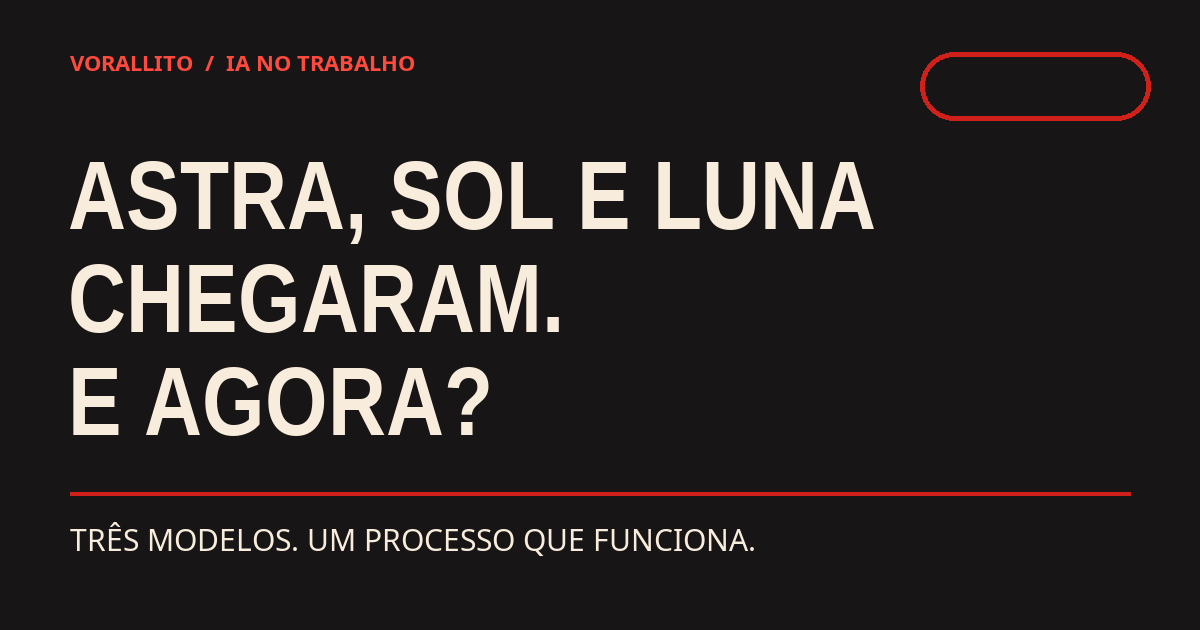
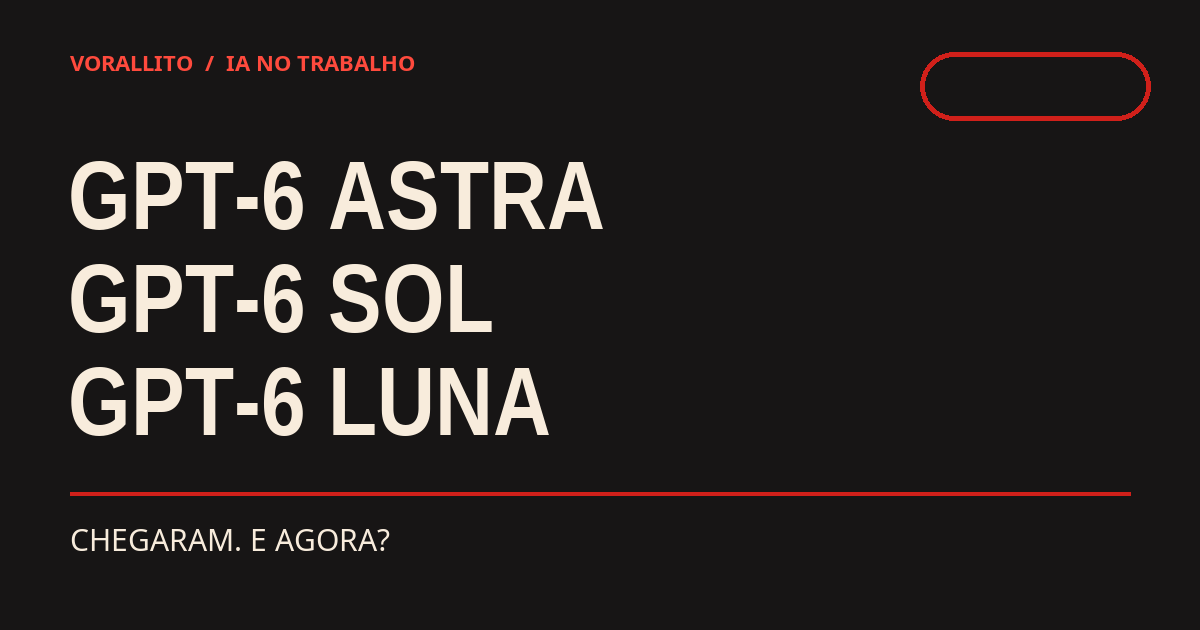
Prefix GPT-6 in Astra Sol Luna guide

diff --git a/chatgpt-gpt6/index.html b/chatgpt-gpt6/index.html
@@ -1,4 +1,4 @@
-<!doctype html><html lang="pt-BR"><head><meta charset="utf-8"><meta name="viewport" content="width=device-width,initial-scale=1"><title>Astra, Sol e Luna chegaram. Seu ChatGPT já sabe como você trabalha? — VORALLITO</title><meta name="description" content="Astra, Sol e Luna no trabalho: escolha o modelo e transforme seu processo em uma receita reutilizável."><meta property="og:title" content="Astra, Sol e Luna chegaram. Seu ChatGPT já sabe como você trabalha?"><meta property="og:description" content="Astra, Sol e Luna no trabalho: escolha o modelo e transforme seu processo em uma receita reutilizável."><meta property="og:image" content="https://vorallito.github.io/chatgpt-gpt6/capa.png"><style>
+<!doctype html><html lang="pt-BR"><head><meta charset="utf-8"><meta name="viewport" content="width=device-width,initial-scale=1"><title>GPT-6 Astra, GPT-6 Sol e GPT-6 Luna chegaram. Seu ChatGPT já sabe como você trabalha? — VORALLITO</title><meta name="description" content="GPT-6 Astra, GPT-6 Sol e GPT-6 Luna no trabalho: escolha o modelo e transforme seu processo em uma receita reutilizável."><meta property="og:title" content="GPT-6 Astra, GPT-6 Sol e GPT-6 Luna chegaram. Seu ChatGPT já sabe como você trabalha?"><meta property="og:description" content="GPT-6 Astra, GPT-6 Sol e GPT-6 Luna no trabalho: escolha o modelo e transforme seu processo em uma receita reutilizável."><meta property="og:image" content="https://vorallito.github.io/chatgpt-gpt6/capa-social.png"><style>
 @import url('https://fonts.googleapis.com/css2?family=Bebas+Neue&family=IBM+Plex+Mono:wght@400;600&family=Instrument+Sans:wght@400;500;600;700&display=swap');
 :root{color-scheme:light;--ink:#211c1a;--paper:#f8f1e7;--red:#d0201a;--line:#d8c9bc}
 *{box-sizing:border-box}html{scroll-behavior:smooth}body{margin:0;background:var(--paper);color:var(--ink);font:18px/1.65 'Instrument Sans',Arial,sans-serif}
@@ -11,24 +11,24 @@ h1{font:normal clamp(54px,8vw,102px)/.96 'Bebas Neue','Arial Narrow',sans-serif;
 article{max-width:800px;margin:0 auto;padding:42px 28px 90px}article h1{display:none}article h2{font:normal 44px/1 'Bebas Neue','Arial Narrow',sans-serif;color:var(--red);margin:2em 0 .5em}article p{margin:0 0 1.25em}article ul{padding-left:1.3em}article li{margin:.3em 0}article blockquote{margin:28px 0;padding:22px 26px;background:#fff;border-left:5px solid var(--red);box-shadow:0 10px 32px #3420180b}article blockquote p:last-child{margin-bottom:0}article strong{font-weight:700}article hr{border:0;border-top:1px solid var(--line);margin:40px 0}
 footer{border-top:1px solid var(--line);max-width:1140px;margin:auto;padding:22px 30px 40px;color:#64564f;font:13px 'IBM Plex Mono',monospace}
 @media(max-width:640px){body{font-size:16px}.hero{padding-top:45px}.deck{font-size:19px}article{padding:24px 20px 64px}article h2{font-size:36px}.mast{padding:14px 20px}}
-</style></head><body><header class="mast"><a class="brand" href="/">VORALLITO</a><a class="sub" href="https://vorallito.substack.com/subscribe">ASSINAR GRÁTIS ↗</a></header><section class="hero"><div class="hero-inner"><div class="eyebrow">VORALLITO / IA NO TRABALHO / 25.09.2026</div><h1>Astra, Sol e Luna chegaram. Seu ChatGPT já sabe como você trabalha?</h1><p class="deck">Astra, Sol e Luna no trabalho: escolha o modelo e transforme seu processo em uma receita reutilizável.</p></div></section><article><h1>Astra, Sol e Luna chegaram. Seu ChatGPT já sabe como você trabalha?</h1>
+</style></head><body><header class="mast"><a class="brand" href="/">VORALLITO</a><a class="sub" href="https://vorallito.substack.com/subscribe">ASSINAR GRÁTIS ↗</a></header><section class="hero"><div class="hero-inner"><div class="eyebrow">VORALLITO / IA NO TRABALHO / 25.09.2026</div><h1>GPT-6 Astra, GPT-6 Sol e GPT-6 Luna chegaram. Seu ChatGPT já sabe como você trabalha?</h1><p class="deck">GPT-6 Astra, GPT-6 Sol e GPT-6 Luna no trabalho: escolha o modelo e transforme seu processo em uma receita reutilizável.</p></div></section><article><h1>GPT-6 Astra, GPT-6 Sol e GPT-6 Luna chegaram. Seu ChatGPT já sabe como você trabalha?</h1>
 <p><strong>A família GPT-6 amplia o que a IA faz no trabalho. Este roteiro mostra como escolher o modelo e transformar seu processo em uma receita reutilizável.</strong></p>
 <p>Você entrega ao ChatGPT uma proposta comercial, uma planilha e as notas da reunião. Pede um resumo executivo. Ele devolve um texto elegante, mas mistura o que foi decidido com o que ainda depende de aprovação.</p>
 <p>Na segunda tentativa, você escreve: “Não invente decisões. Cite a origem de cada número. Siga o formato usado pela equipe.” Na terceira, cola tudo outra vez.</p>
-<p>Agora temos três modelos da mesma geração. <strong>Astra</strong> foi apresentado para os trabalhos mais exigentes, com avanços em tarefas de várias etapas, uso do computador e criação de documentos, planilhas e apresentações. <strong>Sol e Luna, lançados em 22 de setembro</strong>, levam parte desses avanços a opções mais rápidas e com menor preço na API. A pergunta útil não é qual nome parece mais poderoso. É <strong>qual parte do seu trabalho pede mais capacidade e qual parte precisa de um processo claro e repetível</strong>. <a href="https://openai.com/index/gpt-6-astra/">Fontes: OpenAI sobre Astra</a> e <a href="https://openai.com/index/introducing-gpt-6-sol-and-luna/">sobre Sol e Luna</a>.</p>
+<p>Agora temos três modelos da mesma geração. <strong>GPT-6 Astra</strong> foi apresentado para os trabalhos mais exigentes, com avanços em tarefas de várias etapas, uso do computador e criação de documentos, planilhas e apresentações. <strong>GPT-6 Sol e GPT-6 Luna, lançados em 22 de setembro</strong>, levam parte desses avanços a opções mais rápidas e com menor preço na API. A pergunta útil não é qual nome parece mais poderoso. É <strong>qual parte do seu trabalho pede mais capacidade e qual parte precisa de um processo claro e repetível</strong>. <a href="https://openai.com/index/gpt-6-astra/">Fontes: OpenAI sobre GPT-6 Astra</a> e <a href="https://openai.com/index/introducing-gpt-6-sol-and-luna/">sobre GPT-6 Sol e GPT-6 Luna</a>.</p>
 <p>No <a href="https://vorallito.substack.com/p/pare-de-colar-o-mesmo-contexto-no">guia anterior</a>, mostrei como pensar nisso com Claude Skills. Esta é a edição para quem trabalha com <strong>ChatGPT</strong>.</p>
 <h2>Uma família, três ritmos de trabalho</h2>
-<p><strong>Astra:</strong> eu o escolheria para uma decisão difícil que atravessa vários arquivos e ferramentas. Pense em reconciliar três versões de uma proposta, comentários do jurídico e uma planilha de preços antes de produzir o documento final. É a opção de maior capacidade da família segundo a OpenAI. <a href="https://openai.com/index/gpt-6-astra/">Fonte</a>.</p>
-<p><strong>Sol:</strong> eu testaria em análises, pesquisas e redações profissionais que se repetem, especialmente quando preciso revisar a resposta algumas vezes. A OpenAI o apresenta como uma opção forte para trabalho difícil, com mais margem para iterar; na API, seu preço por token é menor que o de Astra. <a href="https://openai.com/index/introducing-gpt-6-sol-and-luna/">Fontes: Sol</a> e <a href="https://openai.com/index/gpt-6-astra/">Astra</a>.</p>
-<p><strong>Luna:</strong> eu começaria por triagens, classificações e primeiros rascunhos com critérios claros, conferindo se o resultado atende ao padrão antes de ampliar o uso. Entre os três, tem o menor preço por token na API. <a href="https://openai.com/index/introducing-gpt-6-sol-and-luna/">Fontes: Sol e Luna</a> e <a href="https://openai.com/index/gpt-6-astra/">Astra</a>.</p>
-<p>Esses são <strong>critérios editoriais para escolher o primeiro teste</strong>, não resultados de uma comparação que executei. Sol e Luna estão disponíveis em <strong>ChatGPT Work e Codex</strong> para contas elegíveis; a OpenAI informa que eles ainda não aparecem nas conversas comuns de Chat. O acesso a Astra, os limites de uso e as opções mostradas no seletor dependem do plano e das configurações do workspace. <a href="https://openai.com/index/introducing-gpt-6-sol-and-luna/">Fontes: lançamento</a> e <a href="https://help.openai.com/en/articles/20001275-chatgpt-work-and-codex">Central de Ajuda</a>.</p>
+<p><strong>GPT-6 Astra:</strong> eu o escolheria para uma decisão difícil que atravessa vários arquivos e ferramentas. Pense em reconciliar três versões de uma proposta, comentários do jurídico e uma planilha de preços antes de produzir o documento final. É a opção de maior capacidade da família segundo a OpenAI. <a href="https://openai.com/index/gpt-6-astra/">Fonte</a>.</p>
+<p><strong>GPT-6 Sol:</strong> eu testaria em análises, pesquisas e redações profissionais que se repetem, especialmente quando preciso revisar a resposta algumas vezes. A OpenAI o apresenta como uma opção forte para trabalho difícil, com mais margem para iterar; na API, seu preço por token é menor que o de GPT-6 Astra. <a href="https://openai.com/index/introducing-gpt-6-sol-and-luna/">Fontes: GPT-6 Sol</a> e <a href="https://openai.com/index/gpt-6-astra/">GPT-6 Astra</a>.</p>
+<p><strong>GPT-6 Luna:</strong> eu começaria por triagens, classificações e primeiros rascunhos com critérios claros, conferindo se o resultado atende ao padrão antes de ampliar o uso. Entre os três, tem o menor preço por token na API. <a href="https://openai.com/index/introducing-gpt-6-sol-and-luna/">Fontes: GPT-6 Sol e GPT-6 Luna</a> e <a href="https://openai.com/index/gpt-6-astra/">GPT-6 Astra</a>.</p>
+<p>Esses são <strong>critérios editoriais para escolher o primeiro teste</strong>, não resultados de uma comparação que executei. GPT-6 Sol e GPT-6 Luna estão disponíveis em <strong>ChatGPT Work e Codex</strong> para contas elegíveis; a OpenAI informa que eles ainda não aparecem nas conversas comuns de Chat. O acesso a GPT-6 Astra, os limites de uso e as opções mostradas no seletor dependem do plano e das configurações do workspace. <a href="https://openai.com/index/introducing-gpt-6-sol-and-luna/">Fontes: lançamento</a> e <a href="https://help.openai.com/en/articles/20001275-chatgpt-work-and-codex">Central de Ajuda</a>.</p>
 <h2>Quatro peças, quatro funções</h2>
 <p>Antes de baixar qualquer coleção de prompts, separe as peças do trabalho:</p>
 <ul>
 <li><strong>Projeto</strong> guarda conversas, arquivos e instruções de um assunto contínuo. Exemplo: “Propostas comerciais”, com modelo aprovado e glossário da equipe.</li>
 <li><strong>Skill</strong> define um procedimento reutilizável para uma tarefa específica. Exemplo: revisar uma proposta, separando fatos de hipóteses e conferindo números.</li>
 <li><strong>Work</strong> executa trabalho de várias etapas e produz entregáveis. Exemplo: ler os materiais, montar um documento e revisar o arquivo final.</li>
-<li><strong>Modelo</strong> determina a capacidade usada na execução. Exemplo: Astra para reconciliar fontes conflitantes; Sol para revisar uma análise; Luna para uma triagem bem definida.</li>
+<li><strong>Modelo</strong> determina a capacidade usada na execução. Exemplo: GPT-6 Astra para reconciliar fontes conflitantes; GPT-6 Sol para revisar uma análise; GPT-6 Luna para uma triagem bem definida.</li>
 </ul>
 <p><a href="https://help.openai.com/en/articles/10169521-projects-in-chatgpt">Projetos</a> estão disponíveis para usuários conectados, conforme plano e configuração. As <a href="https://help.openai.com/en/articles/20001066-skills-in-chatgpt">Skills nativas do ChatGPT</a> são oferecidas a contas elegíveis Business, Enterprise, Healthcare e Edu e podem depender de liberação pelo administrador. O <a href="https://help.openai.com/en/articles/20001275-chatgpt-work-and-codex">modo Work</a> atende tarefas mais longas e produz arquivos; seu acesso também depende do plano.</p>
 <p><strong>A distinção prática:</strong> o Projeto reúne o contexto; a Skill descreve a receita; Work executa a tarefa; o modelo fornece a capacidade. Você pode começar pelo Projeto e pelo procedimento abaixo mesmo que o botão <strong>Skills</strong> ainda não apareça na sua conta.</p>
@@ -49,11 +49,11 @@ footer{border-top:1px solid var(--line);max-width:1140px;margin:auto;padding:22p
 <p>O teste mais importante não é “a Skill rodou?”. É: <strong>ela preservou o que estava pendente, apontou a fonte dos números e entregou o formato esperado?</strong> Guarde um caso bem resolvido e um caso em que faltam dados. Compare os resultados sempre que mudar a receita.</p>
 <p>Se o recurso de Skills não estiver disponível, mantenha o procedimento nas instruções do Projeto ou em um documento de referência do próprio Projeto. Você ainda terá um fluxo repetível, embora a forma de ativação seja diferente.</p>
 <h2>Uma tarefa, três formas de aproveitar a família</h2>
-<p>Na revisão da proposta, eu começaria com <strong>Luna</strong> para identificar campos ausentes e classificar trechos como fato, estimativa ou pendência. Pediria a <strong>Sol</strong> uma primeira comparação entre proposta, regras comerciais e modelo aprovado. Levaria a <strong>Astra</strong> a etapa mais difícil: resolver divergências entre versões, produzir o arquivo final e conferir sua consistência. Se uma etapa simples falhar no seu teste, suba a capacidade; se o resultado estiver correto, guarde o procedimento.</p>
-<p>Você não precisa trocar de modelo três vezes em toda proposta. O exemplo mostra <strong>como decidir onde investir mais capacidade</strong>. Em qualquer um deles, o resultado melhora quando o contexto, a tarefa e os critérios de conferência estão explícitos. Astra pode consumir sua franquia de Work mais rapidamente, conforme o tipo e tamanho da tarefa. <a href="https://help.openai.com/en/articles/20001275-chatgpt-work-and-codex">Fonte: OpenAI</a>.</p>
+<p>Na revisão da proposta, eu começaria com <strong>GPT-6 Luna</strong> para identificar campos ausentes e classificar trechos como fato, estimativa ou pendência. Pediria a <strong>GPT-6 Sol</strong> uma primeira comparação entre proposta, regras comerciais e modelo aprovado. Levaria a <strong>GPT-6 Astra</strong> a etapa mais difícil: resolver divergências entre versões, produzir o arquivo final e conferir sua consistência. Se uma etapa simples falhar no seu teste, suba a capacidade; se o resultado estiver correto, guarde o procedimento.</p>
+<p>Você não precisa trocar de modelo três vezes em toda proposta. O exemplo mostra <strong>como decidir onde investir mais capacidade</strong>. Em qualquer um deles, o resultado melhora quando o contexto, a tarefa e os critérios de conferência estão explícitos. GPT-6 Astra pode consumir sua franquia de Work mais rapidamente, conforme o tipo e tamanho da tarefa. <a href="https://help.openai.com/en/articles/20001275-chatgpt-work-and-codex">Fonte: OpenAI</a>.</p>
 <h2>Três usos que eu montaria em seguida</h2>
 <p><strong>1. Reuniões → decisões verificáveis.</strong> Entregue notas e peça três blocos: decisões tomadas, ações confirmadas e pontos a confirmar. Responsável e prazo só entram quando constarem da fonte. A Skill pode exigir esse formato sempre que você pedir uma ata ou plano de ação.</p>
-<p><strong>2. Pesquisa → síntese com trilha de fontes.</strong> Defina a pergunta, os documentos permitidos e uma tabela com afirmação, evidência, divergência e data. Work e Astra podem ajudar quando a pesquisa atravessa muitos documentos; a revisão humana deve conseguir voltar de cada conclusão à origem.</p>
+<p><strong>2. Pesquisa → síntese com trilha de fontes.</strong> Defina a pergunta, os documentos permitidos e uma tabela com afirmação, evidência, divergência e data. Work e GPT-6 Astra podem ajudar quando a pesquisa atravessa muitos documentos; a revisão humana deve conseguir voltar de cada conclusão à origem.</p>
 <p><strong>3. Planilhas → números auditáveis.</strong> Dê o arquivo, o cálculo esperado e dois exemplos conferidos manualmente. Peça que a saída identifique células alteradas, fórmulas, unidades e valores sem fonte. Abra a planilha final antes de encaminhá-la.</p>
 <p>Essas três receitas atendem a gestão, marketing, vendas, operações e finanças. A ferramenta pode mudar; o ponto de partida continua sendo uma tarefa reconhecível e um resultado que você sabe verificar.</p>
 <h2>Uma escolha que poupa retrabalho</h2>

diff --git a/chatgpt-gpt6/artigo.md b/chatgpt-gpt6/artigo.md
@@ -1,4 +1,4 @@
-# Astra, Sol e Luna chegaram. Seu ChatGPT já sabe como você trabalha?
+# GPT-6 Astra, GPT-6 Sol e GPT-6 Luna chegaram. Seu ChatGPT já sabe como você trabalha?
 
 **A família GPT-6 amplia o que a IA faz no trabalho. Este roteiro mostra como escolher o modelo e transformar seu processo em uma receita reutilizável.**
 
@@ -6,19 +6,19 @@ Você entrega ao ChatGPT uma proposta comercial, uma planilha e as notas da reun
 
 Na segunda tentativa, você escreve: “Não invente decisões. Cite a origem de cada número. Siga o formato usado pela equipe.” Na terceira, cola tudo outra vez.
 
-Agora temos três modelos da mesma geração. **Astra** foi apresentado para os trabalhos mais exigentes, com avanços em tarefas de várias etapas, uso do computador e criação de documentos, planilhas e apresentações. **Sol e Luna, lançados em 22 de setembro**, levam parte desses avanços a opções mais rápidas e com menor preço na API. A pergunta útil não é qual nome parece mais poderoso. É **qual parte do seu trabalho pede mais capacidade e qual parte precisa de um processo claro e repetível**. [Fontes: OpenAI sobre Astra](https://openai.com/index/gpt-6-astra/) e [sobre Sol e Luna](https://openai.com/index/introducing-gpt-6-sol-and-luna/).
+Agora temos três modelos da mesma geração. **GPT-6 Astra** foi apresentado para os trabalhos mais exigentes, com avanços em tarefas de várias etapas, uso do computador e criação de documentos, planilhas e apresentações. **GPT-6 Sol e GPT-6 Luna, lançados em 22 de setembro**, levam parte desses avanços a opções mais rápidas e com menor preço na API. A pergunta útil não é qual nome parece mais poderoso. É **qual parte do seu trabalho pede mais capacidade e qual parte precisa de um processo claro e repetível**. [Fontes: OpenAI sobre GPT-6 Astra](https://openai.com/index/gpt-6-astra/) e [sobre GPT-6 Sol e GPT-6 Luna](https://openai.com/index/introducing-gpt-6-sol-and-luna/).
 
 No [guia anterior](https://vorallito.substack.com/p/pare-de-colar-o-mesmo-contexto-no), mostrei como pensar nisso com Claude Skills. Esta é a edição para quem trabalha com **ChatGPT**.
 
 ## Uma família, três ritmos de trabalho
 
-**Astra:** eu o escolheria para uma decisão difícil que atravessa vários arquivos e ferramentas. Pense em reconciliar três versões de uma proposta, comentários do jurídico e uma planilha de preços antes de produzir o documento final. É a opção de maior capacidade da família segundo a OpenAI. [Fonte](https://openai.com/index/gpt-6-astra/).
+**GPT-6 Astra:** eu o escolheria para uma decisão difícil que atravessa vários arquivos e ferramentas. Pense em reconciliar três versões de uma proposta, comentários do jurídico e uma planilha de preços antes de produzir o documento final. É a opção de maior capacidade da família segundo a OpenAI. [Fonte](https://openai.com/index/gpt-6-astra/).
 
-**Sol:** eu testaria em análises, pesquisas e redações profissionais que se repetem, especialmente quando preciso revisar a resposta algumas vezes. A OpenAI o apresenta como uma opção forte para trabalho difícil, com mais margem para iterar; na API, seu preço por token é menor que o de Astra. [Fontes: Sol](https://openai.com/index/introducing-gpt-6-sol-and-luna/) e [Astra](https://openai.com/index/gpt-6-astra/).
+**GPT-6 Sol:** eu testaria em análises, pesquisas e redações profissionais que se repetem, especialmente quando preciso revisar a resposta algumas vezes. A OpenAI o apresenta como uma opção forte para trabalho difícil, com mais margem para iterar; na API, seu preço por token é menor que o de GPT-6 Astra. [Fontes: GPT-6 Sol](https://openai.com/index/introducing-gpt-6-sol-and-luna/) e [GPT-6 Astra](https://openai.com/index/gpt-6-astra/).
 
-**Luna:** eu começaria por triagens, classificações e primeiros rascunhos com critérios claros, conferindo se o resultado atende ao padrão antes de ampliar o uso. Entre os três, tem o menor preço por token na API. [Fontes: Sol e Luna](https://openai.com/index/introducing-gpt-6-sol-and-luna/) e [Astra](https://openai.com/index/gpt-6-astra/).
+**GPT-6 Luna:** eu começaria por triagens, classificações e primeiros rascunhos com critérios claros, conferindo se o resultado atende ao padrão antes de ampliar o uso. Entre os três, tem o menor preço por token na API. [Fontes: GPT-6 Sol e GPT-6 Luna](https://openai.com/index/introducing-gpt-6-sol-and-luna/) e [GPT-6 Astra](https://openai.com/index/gpt-6-astra/).
 
-Esses são **critérios editoriais para escolher o primeiro teste**, não resultados de uma comparação que executei. Sol e Luna estão disponíveis em **ChatGPT Work e Codex** para contas elegíveis; a OpenAI informa que eles ainda não aparecem nas conversas comuns de Chat. O acesso a Astra, os limites de uso e as opções mostradas no seletor dependem do plano e das configurações do workspace. [Fontes: lançamento](https://openai.com/index/introducing-gpt-6-sol-and-luna/) e [Central de Ajuda](https://help.openai.com/en/articles/20001275-chatgpt-work-and-codex).
+Esses são **critérios editoriais para escolher o primeiro teste**, não resultados de uma comparação que executei. GPT-6 Sol e GPT-6 Luna estão disponíveis em **ChatGPT Work e Codex** para contas elegíveis; a OpenAI informa que eles ainda não aparecem nas conversas comuns de Chat. O acesso a GPT-6 Astra, os limites de uso e as opções mostradas no seletor dependem do plano e das configurações do workspace. [Fontes: lançamento](https://openai.com/index/introducing-gpt-6-sol-and-luna/) e [Central de Ajuda](https://help.openai.com/en/articles/20001275-chatgpt-work-and-codex).
 
 ## Quatro peças, quatro funções
 
@@ -27,7 +27,7 @@ Antes de baixar qualquer coleção de prompts, separe as peças do trabalho:
 - **Projeto** guarda conversas, arquivos e instruções de um assunto contínuo. Exemplo: “Propostas comerciais”, com modelo aprovado e glossário da equipe.
 - **Skill** define um procedimento reutilizável para uma tarefa específica. Exemplo: revisar uma proposta, separando fatos de hipóteses e conferindo números.
 - **Work** executa trabalho de várias etapas e produz entregáveis. Exemplo: ler os materiais, montar um documento e revisar o arquivo final.
-- **Modelo** determina a capacidade usada na execução. Exemplo: Astra para reconciliar fontes conflitantes; Sol para revisar uma análise; Luna para uma triagem bem definida.
+- **Modelo** determina a capacidade usada na execução. Exemplo: GPT-6 Astra para reconciliar fontes conflitantes; GPT-6 Sol para revisar uma análise; GPT-6 Luna para uma triagem bem definida.
 
 [Projetos](https://help.openai.com/en/articles/10169521-projects-in-chatgpt) estão disponíveis para usuários conectados, conforme plano e configuração. As [Skills nativas do ChatGPT](https://help.openai.com/en/articles/20001066-skills-in-chatgpt) são oferecidas a contas elegíveis Business, Enterprise, Healthcare e Edu e podem depender de liberação pelo administrador. O [modo Work](https://help.openai.com/en/articles/20001275-chatgpt-work-and-codex) atende tarefas mais longas e produz arquivos; seu acesso também depende do plano.
 
@@ -63,15 +63,15 @@ Se o recurso de Skills não estiver disponível, mantenha o procedimento nas ins
 
 ## Uma tarefa, três formas de aproveitar a família
 
-Na revisão da proposta, eu começaria com **Luna** para identificar campos ausentes e classificar trechos como fato, estimativa ou pendência. Pediria a **Sol** uma primeira comparação entre proposta, regras comerciais e modelo aprovado. Levaria a **Astra** a etapa mais difícil: resolver divergências entre versões, produzir o arquivo final e conferir sua consistência. Se uma etapa simples falhar no seu teste, suba a capacidade; se o resultado estiver correto, guarde o procedimento.
+Na revisão da proposta, eu começaria com **GPT-6 Luna** para identificar campos ausentes e classificar trechos como fato, estimativa ou pendência. Pediria a **GPT-6 Sol** uma primeira comparação entre proposta, regras comerciais e modelo aprovado. Levaria a **GPT-6 Astra** a etapa mais difícil: resolver divergências entre versões, produzir o arquivo final e conferir sua consistência. Se uma etapa simples falhar no seu teste, suba a capacidade; se o resultado estiver correto, guarde o procedimento.
 
-Você não precisa trocar de modelo três vezes em toda proposta. O exemplo mostra **como decidir onde investir mais capacidade**. Em qualquer um deles, o resultado melhora quando o contexto, a tarefa e os critérios de conferência estão explícitos. Astra pode consumir sua franquia de Work mais rapidamente, conforme o tipo e tamanho da tarefa. [Fonte: OpenAI](https://help.openai.com/en/articles/20001275-chatgpt-work-and-codex).
+Você não precisa trocar de modelo três vezes em toda proposta. O exemplo mostra **como decidir onde investir mais capacidade**. Em qualquer um deles, o resultado melhora quando o contexto, a tarefa e os critérios de conferência estão explícitos. GPT-6 Astra pode consumir sua franquia de Work mais rapidamente, conforme o tipo e tamanho da tarefa. [Fonte: OpenAI](https://help.openai.com/en/articles/20001275-chatgpt-work-and-codex).
 
 ## Três usos que eu montaria em seguida
 
 **1. Reuniões → decisões verificáveis.** Entregue notas e peça três blocos: decisões tomadas, ações confirmadas e pontos a confirmar. Responsável e prazo só entram quando constarem da fonte. A Skill pode exigir esse formato sempre que você pedir uma ata ou plano de ação.
 
-**2. Pesquisa → síntese com trilha de fontes.** Defina a pergunta, os documentos permitidos e uma tabela com afirmação, evidência, divergência e data. Work e Astra podem ajudar quando a pesquisa atravessa muitos documentos; a revisão humana deve conseguir voltar de cada conclusão à origem.
+**2. Pesquisa → síntese com trilha de fontes.** Defina a pergunta, os documentos permitidos e uma tabela com afirmação, evidência, divergência e data. Work e GPT-6 Astra podem ajudar quando a pesquisa atravessa muitos documentos; a revisão humana deve conseguir voltar de cada conclusão à origem.
 
 **3. Planilhas → números auditáveis.** Dê o arquivo, o cálculo esperado e dois exemplos conferidos manualmente. Peça que a saída identifique células alteradas, fórmulas, unidades e valores sem fonte. Abra a planilha final antes de encaminhá-la.
 
